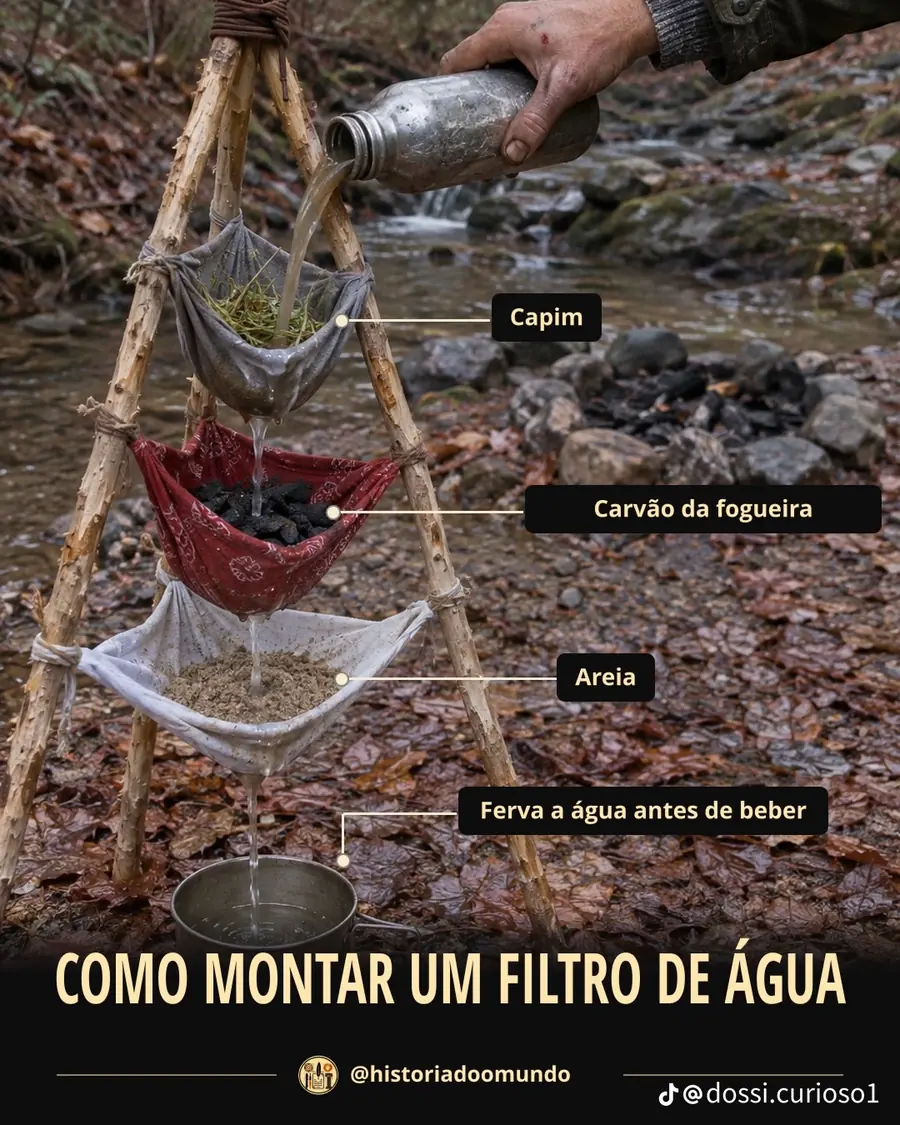
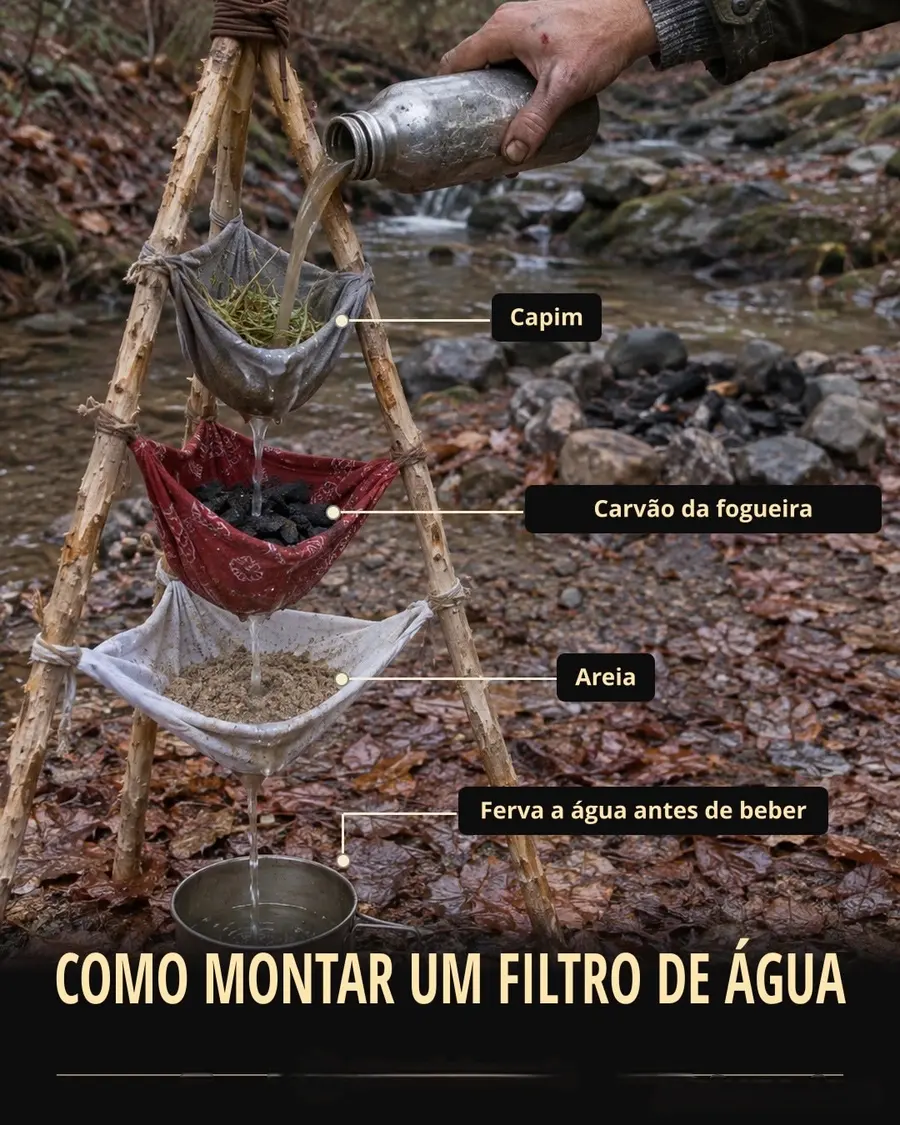
feat(manual): imagens dos 6 verbetes sem créditos de redes sociais (faixa inferior limpa) + sw v61

Changed region(s): [[0.3111, 0.9333, 0.6222, 0.9956], [0.7156, 0.9644, 0.9644, 0.9956]]

diff --git a/public/sw.js b/public/sw.js
@@ -10,7 +10,7 @@
  * Bump de versão: altere VERSAO ao mudar a lógica deste arquivo — os caches
  * antigos são apagados na ativação.
  */
-const VERSAO = "v60";
+const VERSAO = "v61";
 const CACHE_SHELL = `shell-${VERSAO}`;
 const CACHE_ASSETS = `assets-${VERSAO}`;
 const CACHE_RUNTIME = `runtime-${VERSAO}`;
